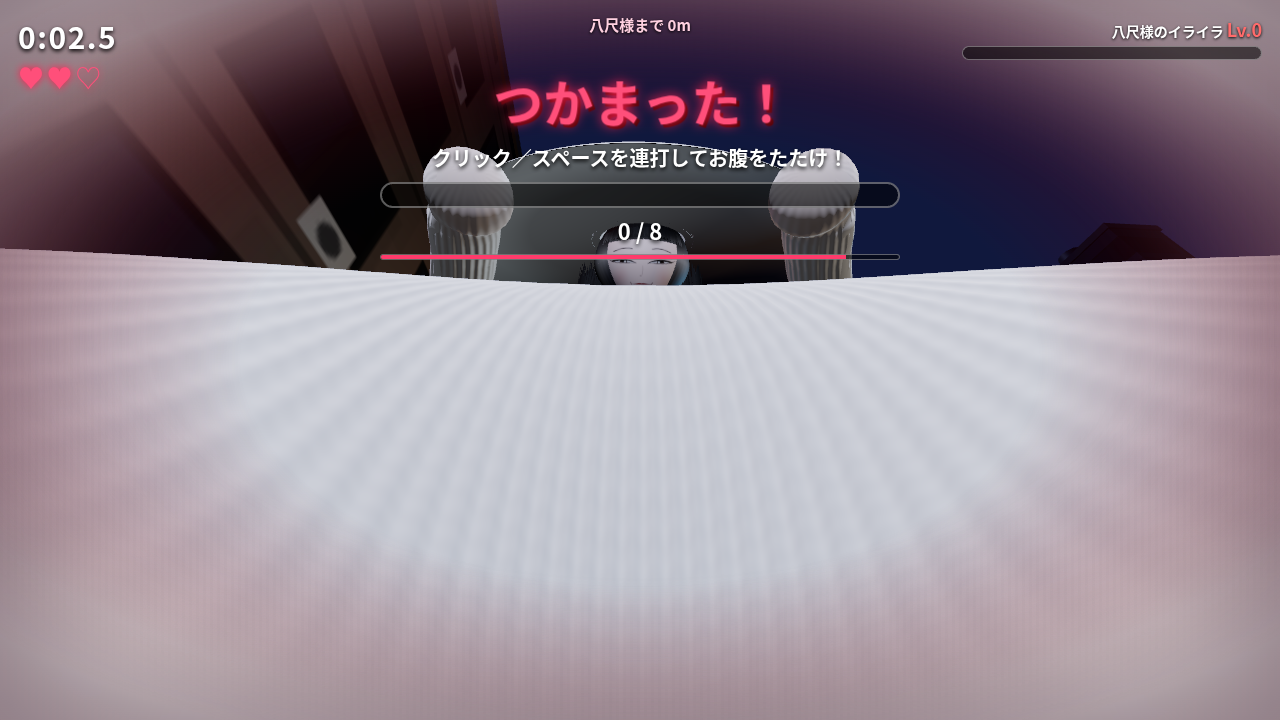
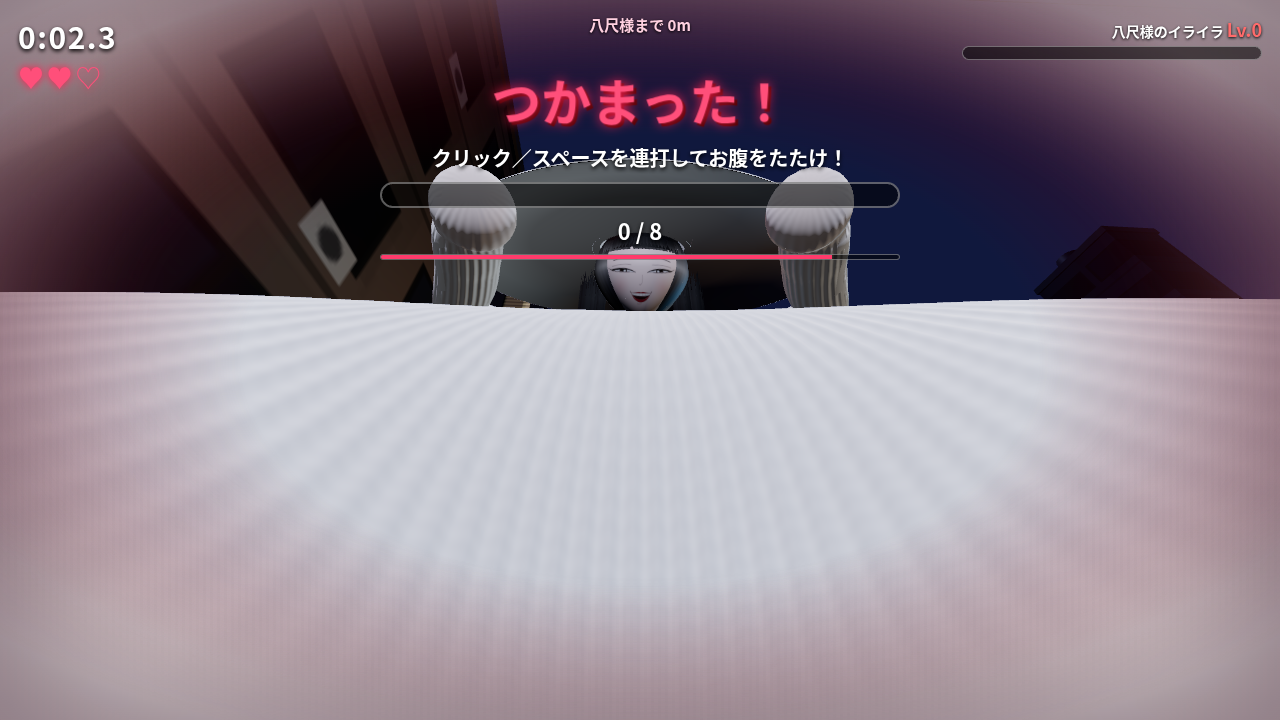
Player 7.5 m/s; hard cap her speed at 68% of player in every state (lunges included); grace after growth; speed test

Changed region(s): [[0.0, 0.0917, 1.0, 0.4583], [0.2188, 0.275, 0.25, 0.3056], [0.0625, 0.0306, 0.0938, 0.0611]]

diff --git a/js/main.js b/js/main.js
@@ -90,7 +90,8 @@ window.__game = { S, hachi, world, audio, camera, renderer, scene, get info() { 
 // ---------------- input
 const keys = {};
 // speeds (m/s). Player is always clearly faster in the open; she wins only by cornering / lunging up close.
-const PLAYER_SPEED = 6.0;
+const PLAYER_SPEED = 7.5;
+const HACHI_MAX = PLAYER_SPEED * 0.68; // hard cap on her speed in every state (lunge included) = 5.1 m/s
 let mouseDX = 0, mouseDY = 0;
 addEventListener('keydown', (e) => {
   keys[e.code] = true;
@@ -250,6 +251,7 @@ function escapeGrab() {
 // ---------------- irritation / growth
 function stageUp() {
   S.stage++; S.maxStage = Math.max(S.maxStage, S.stage); S.irritation = 0;
+  S.invuln = Math.max(S.invuln, 1.5); // the belly's growth surge can't grab you
   hachi.setStage(S.stage); audio.grow(); S.shake = 0.6;
   audio.say('irritate', headPos(), true); setExpr(S.stage >= 3 ? 'furious' : 'angry', 3.2);
   const msg = S.stage === 1 ? 'お腹がふくらんだ！' : S.stage < 4 ? 'お腹がさらに巨大化！' : 'お腹がとまらない！！';
@@ -285,8 +287,8 @@ function updatePlayer(dt) {
   S.knock.multiplyScalar(Math.exp(-dt * 4));
   world.collide(S.pos, 0.32); world.collideProps(S.pos, 0.32);
   const sp = Math.hypot(S.vel.x, S.vel.z);
-  S.bob += sp * dt * 1.55; // ~2.3 steps/s at full speed
-  S.stepAcc += sp * dt; if (S.stepAcc > 1.3) { S.stepAcc = 0; audio.playerStep(sp > 4); }
+  S.bob += sp * dt * (2 / 1.9); // one bob cycle per 1.9 m stride (~3.9 steps/s at full speed)
+  S.stepAcc += sp * dt; if (S.stepAcc > 1.9) { S.stepAcc = 0; audio.playerStep(sp > 5); }
   S.invuln = Math.max(0, S.invuln - dt);
 }
 
@@ -325,9 +327,10 @@ function updateHachi(dt) {
     }
     speed = hachiTargetSpeed();
     h.lungeCd -= dt;
-    if (h.lunge > 0) { h.lunge -= dt; speed *= 1.7; } // short burst, still below PLAYER_SPEED
+    if (h.lunge > 0) { h.lunge -= dt; speed *= 1.6; } // short burst
     else if (dist < 6 && h.lungeCd <= 0 && los) { h.lunge = 0.75; h.lungeCd = 5 + Math.random() * 3; }
     if (S.invuln > 0 && bdist < 3) speed *= 0.3;
+    speed = Math.min(speed, HACHI_MAX);
   }
   if (want && want.lengthSq() > 0.01) {
     want.normalize();
@@ -335,6 +338,7 @@ function updateHachi(dt) {
     h.yaw += d * (1 - Math.exp(-dt * 5));
     const align = Math.max(0.3, Math.cos(d));
     h.speed += (speed * align - h.speed) * (1 - Math.exp(-dt * 4));
+    h.speed = Math.min(h.speed, HACHI_MAX);
     h.pos.x += Math.sin(h.yaw) * h.speed * dt; h.pos.z += Math.cos(h.yaw) * h.speed * dt;
   } else h.speed *= Math.exp(-dt * 5);
   hachi.root.rotation.y = h.yaw;

diff --git a/tools/speedtest.py b/tools/speedtest.py
@@ -1,0 +1,28 @@
+# Speed test: player vs her at every stage, with and without forced lunges. Gap must grow in every case; her peak must stay <= 70% of player speed.
+import asyncio, json
+from playwright.async_api import async_playwright
+async def main():
+    async with async_playwright() as p:
+        b = await p.chromium.launch(executable_path='/usr/bin/google-chrome', args=['--use-gl=angle','--use-angle=swiftshader','--enable-unsafe-swiftshader','--ignore-gpu-blocklist'])
+        pg = await b.new_page(viewport={'width':480,'height':270}); ev=pg.evaluate
+        errs=[]; pg.on('pageerror', lambda e: errs.append(str(e))); pg.on('console', lambda m: m.type in ('error','warning') and errs.append(m.text))
+        await pg.goto('http://localhost:8123/index.html'); await pg.wait_for_function('window.__ready===true')
+        await pg.click('#start-btn'); await pg.wait_for_function("window.__game.S.mode==='play'")
+        await ev("window.__fixedDt=1/30")
+        await ev("""()=>{window.__mx=0;window.__mon=setInterval(()=>{const S=window.__game.S;window.__mx=Math.max(window.__mx,S.h.speed);if(window.__forceLunge){S.h.lunge=9;}},5)}""")
+        res=[]
+        for stage in range(0,7):
+          for lunge in (False, True):
+            await ev(f"()=>{{const g=window.__game,S=g.S;S.stage={stage};g.hachi.setStage({stage},true);S.irritation=99;S.invuln=0;S.h.stun=0;S.h.lungeCd=99;S.h.lunge=0;window.__forceLunge={'true' if lunge else 'false'};S.pos.set(14,0,120);S.vel.set(0,0,-7.5);S.yaw=0;const R=g.hachi.radius;S.h.pos.set(14,0,120+2*R+6);S.h.yaw=Math.PI;g.hachi.root.rotation.y=Math.PI;S.h.speed=0;S.hearts=3;window.__mx=0;}}")
+            await pg.keyboard.down('KeyW'); await ev("window.__simSteps=3")
+            g = "()=>{const g=window.__game,S=g.S,c=g.hachi.bellyCenter(new g.camera.position.constructor());return Math.hypot(S.pos.x-c.x,S.pos.z-c.z)-g.hachi.radius}"
+            await pg.wait_for_timeout(400); g0 = await ev(g); t0 = await ev("performance.now()")
+            await pg.wait_for_timeout(2500); g1 = await ev(g)
+            r = await ev("()=>{const S=window.__game.S;return {pv:Math.hypot(S.vel.x,S.vel.z),hmax:window.__mx,mode:S.mode}}")
+            await ev("window.__simSteps=1;window.__forceLunge=false"); await pg.keyboard.up('KeyW')
+            row=dict(stage=stage,lunge=lunge,gap0=round(g0,2),gap1=round(g1,2),player=round(r['pv'],2),her_max=round(r['hmax'],2),ratio=round(r['hmax']/7.5,3),mode=r['mode'])
+            print(row, flush=True); res.append(row)
+        print('ALL_GROW', all(x['gap1']>x['gap0'] and x['mode']=='play' for x in res), 'MAXRATIO', max(x['ratio'] for x in res))
+        print('errors', errs)
+        await b.close()
+asyncio.run(main())

diff --git a/README.md b/README.md
@@ -7,11 +7,13 @@
 
 ## あそびかた
 - 八尺様に捕まらないように、夜の路地裏を逃げ回ってください。生き延びた時間がスコアになります。
-- プレイヤーは最初から速く走れます（秒速6m。ダッシュもスタミナもありません）。八尺様（秒速2.9〜3.3m）より速いので、ひらけた場所なら引き離せます。でも行き止まりや路地に追いこまれると、近くからの飛びかかりで捕まります。
+- プレイヤーは最初から速く走れます（秒速7.5m。ダッシュもスタミナもありません）。
+- 八尺様の速さには上限があります。どんなときでもプレイヤーの68%（秒速5.1m）をこえません。ふだんは秒速2.9〜3.3m で、近くで飛びかかってくるときは1.6倍になりますが、この上限は同じです。巨大化した直後の1.5秒間は捕まりません。
+- なので、ひらけた場所ならいつでも引き離せます。捕まるのは、行き止まりや路地に追いこまれたときだけです。
 - 近づかれると**捕まって**、お腹に押しつけられます。**お腹を連打**すると脱出できます（8〜12回くらい。かんたんです）。脱出したあとは少しのあいだ無敵になります。
 - 逃げ続けると八尺様は**イライラ**してきます。メーターが満タンになるたびにお腹が**段階的に巨大化**します（上限はありません）。
   - Lv.1で小さな建物、Lv.2で中くらいの建物、Lv.3からはどんな建物でもお腹で押しつぶせるようになります。
-  - お腹が大きくなるほど、八尺様の足は遅くなります（Lv.2で秒速2.5〜2.8m、Lv.4で秒速2.1〜2.4m、Lv.6以上で秒速1.7〜2.0m）。そのかわり、体が大きくなるぶん通せんぼされやすくなります。
+  - お腹が大きくなるほど、八尺様の足は遅くなります（Lv.2で秒速2.5〜2.8m、Lv.4で秒速2.1〜2.4m、Lv.6以上で秒速1.7〜2.0m。飛びかかりはそれぞれ1.6倍です）。そのかわり、体が大きくなるぶん通せんぼされやすくなります。
   - プレイヤーを捕まえると、イライラが少しおさまります。
 - ハートは3つです。捕まるたびに1つ減り、0になったらゲームオーバーです。
 
